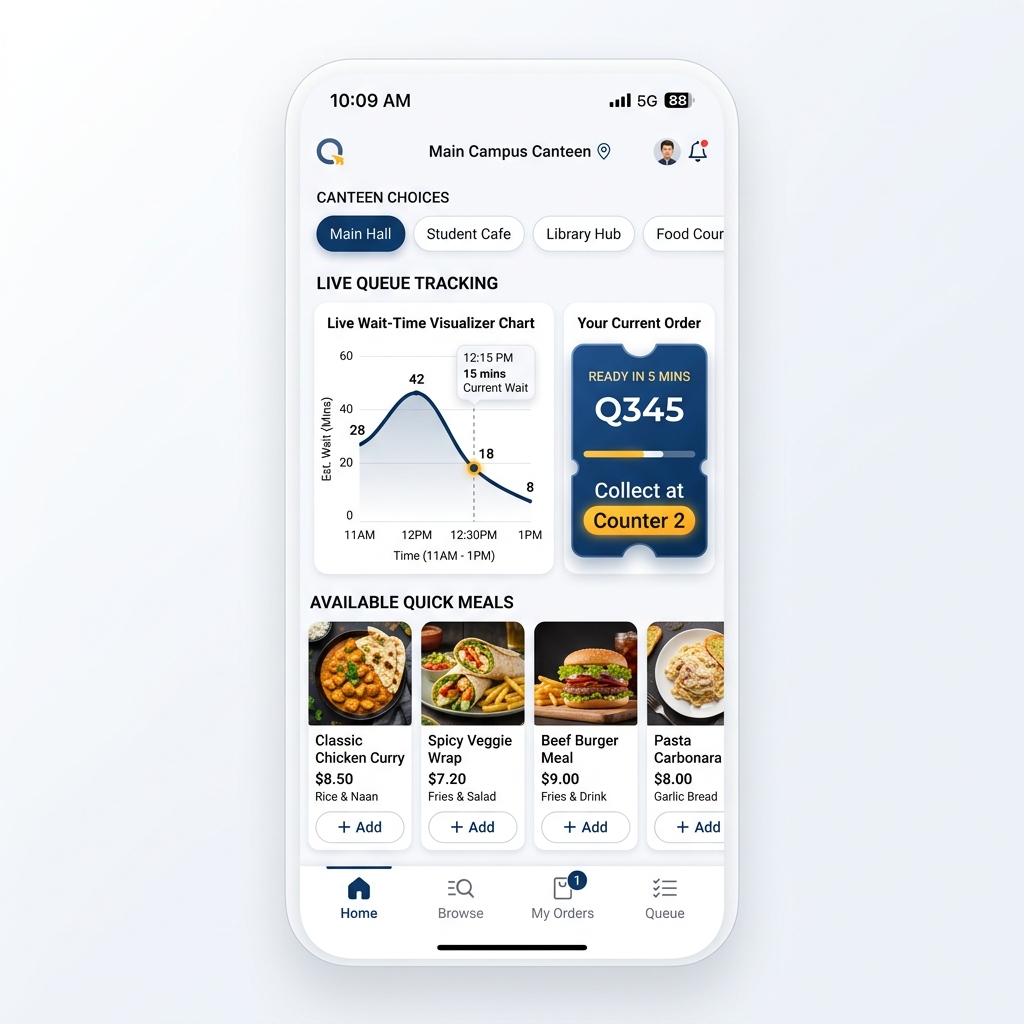
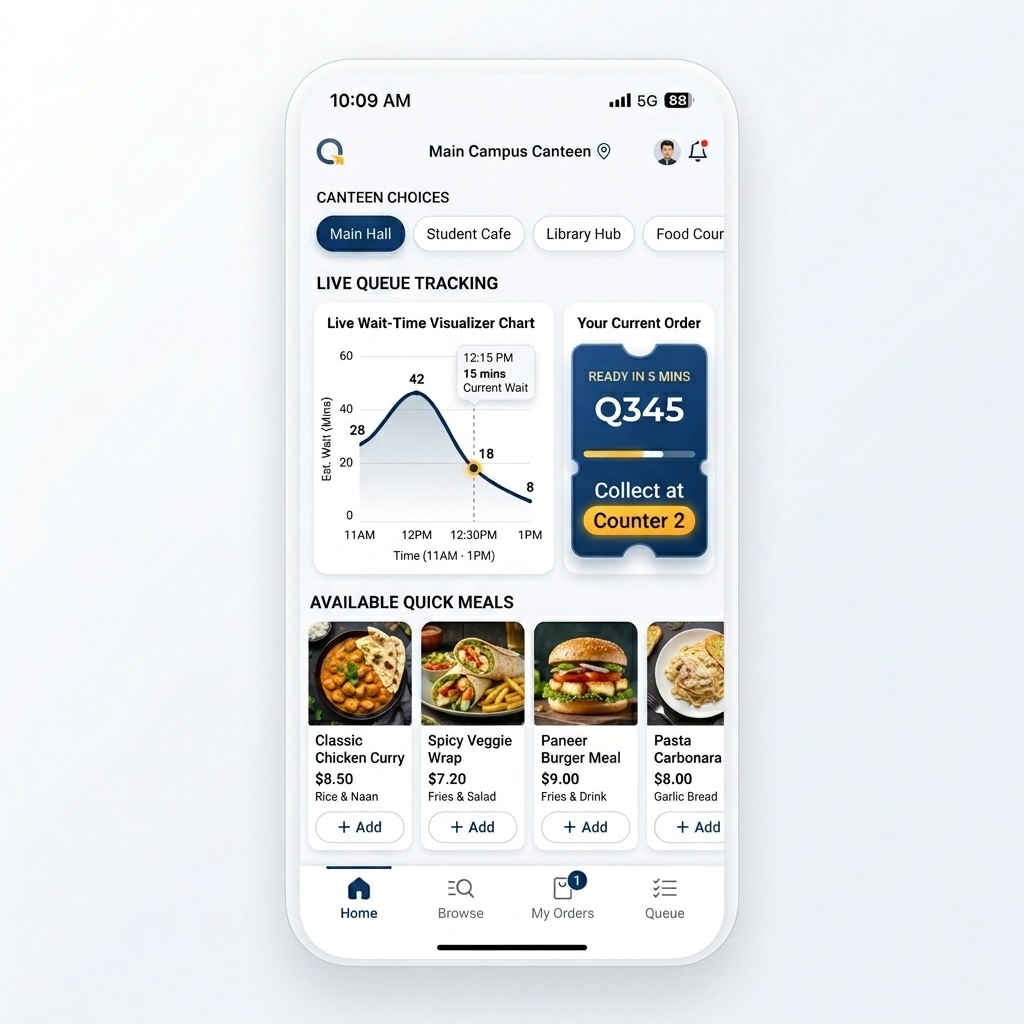
style: replace beef burger references with paneer burger and regenerate mockup

diff --git a/app.js b/app.js
@@ -207,7 +207,7 @@ document.addEventListener('DOMContentLoaded', () => {
   // 4. INTERACTIVE PRE-ORDER DEMO SIMULATOR
   // ==========================================
   const menuItems = [
-    { id: 1, name: 'Christite Signature Burger', price: '₹95', category: 'Fast Food', rating: 4.8 },
+    { id: 1, name: 'Christite Paneer Burger', price: '₹95', category: 'Fast Food', rating: 4.8 },
     { id: 2, name: 'Spicy Paneer Kathi Roll', price: '₹80', category: 'Snacks', rating: 4.6 },
     { id: 3, name: 'Classic Cold Coffee', price: '₹65', category: 'Beverages', rating: 4.9 },
     { id: 4, name: 'Samosa Chat (Double)', price: '₹50', category: 'Chaats', rating: 4.5 }

diff --git a/index.html b/index.html
@@ -629,7 +629,7 @@
                 <div
                   class="p-3 bg-slate-50 rounded-xl max-w-xs mx-auto border border-slate-100 text-left flex justify-between items-center">
                   <div>
-                    <span id="sim-selected-food" class="block font-bold text-slate-800 text-xs font-heading">Signature
+                    <span id="sim-selected-food" class="block font-bold text-slate-800 text-xs font-heading">Paneer
                       Burger</span>
                     <span class="text-[10px] text-slate-400">Pick-up counter 2</span>
                   </div>